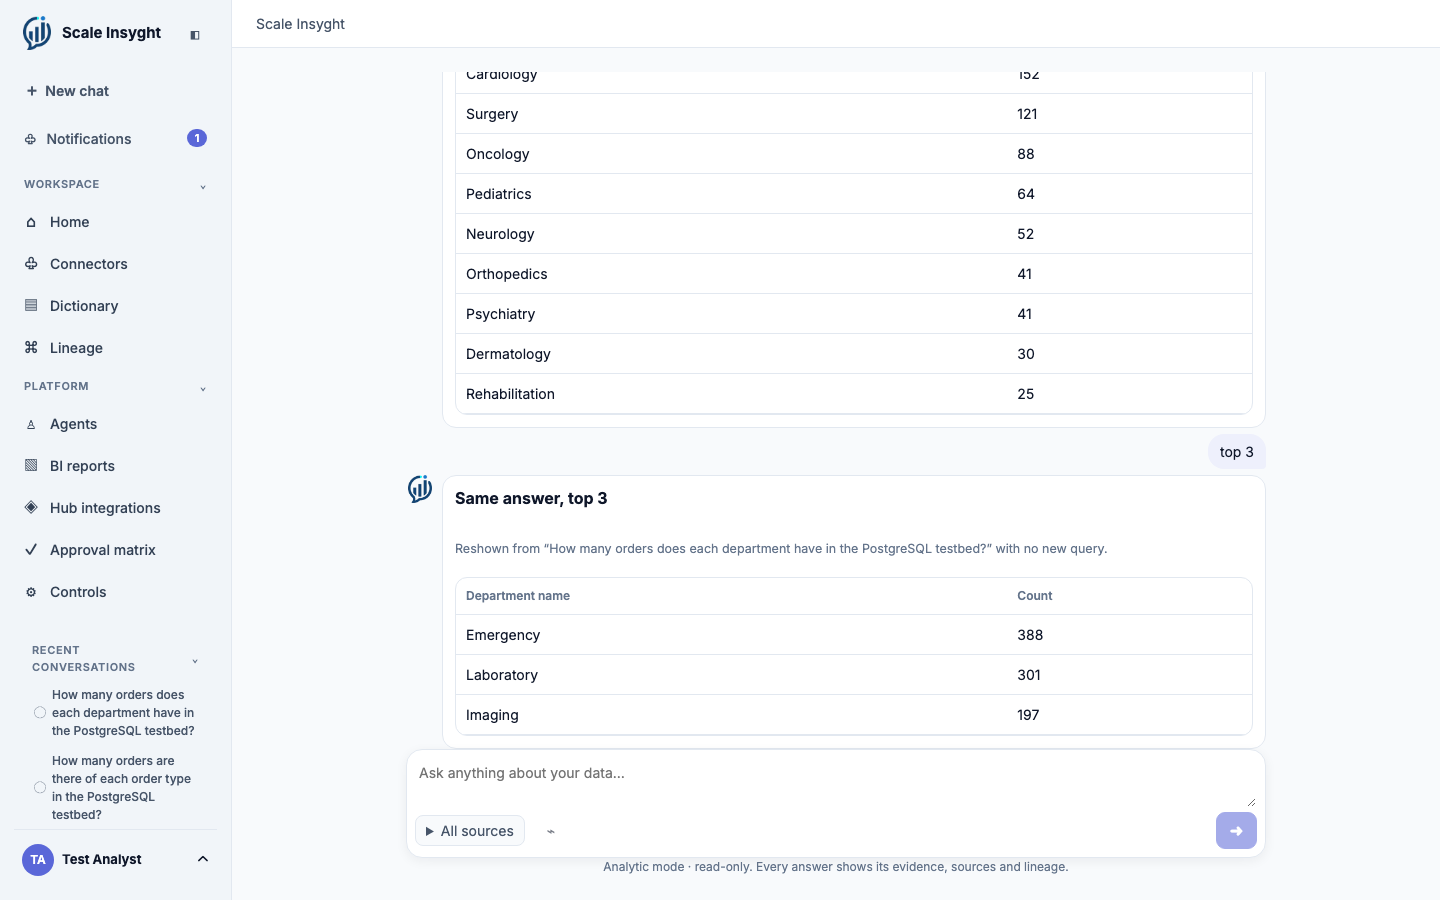
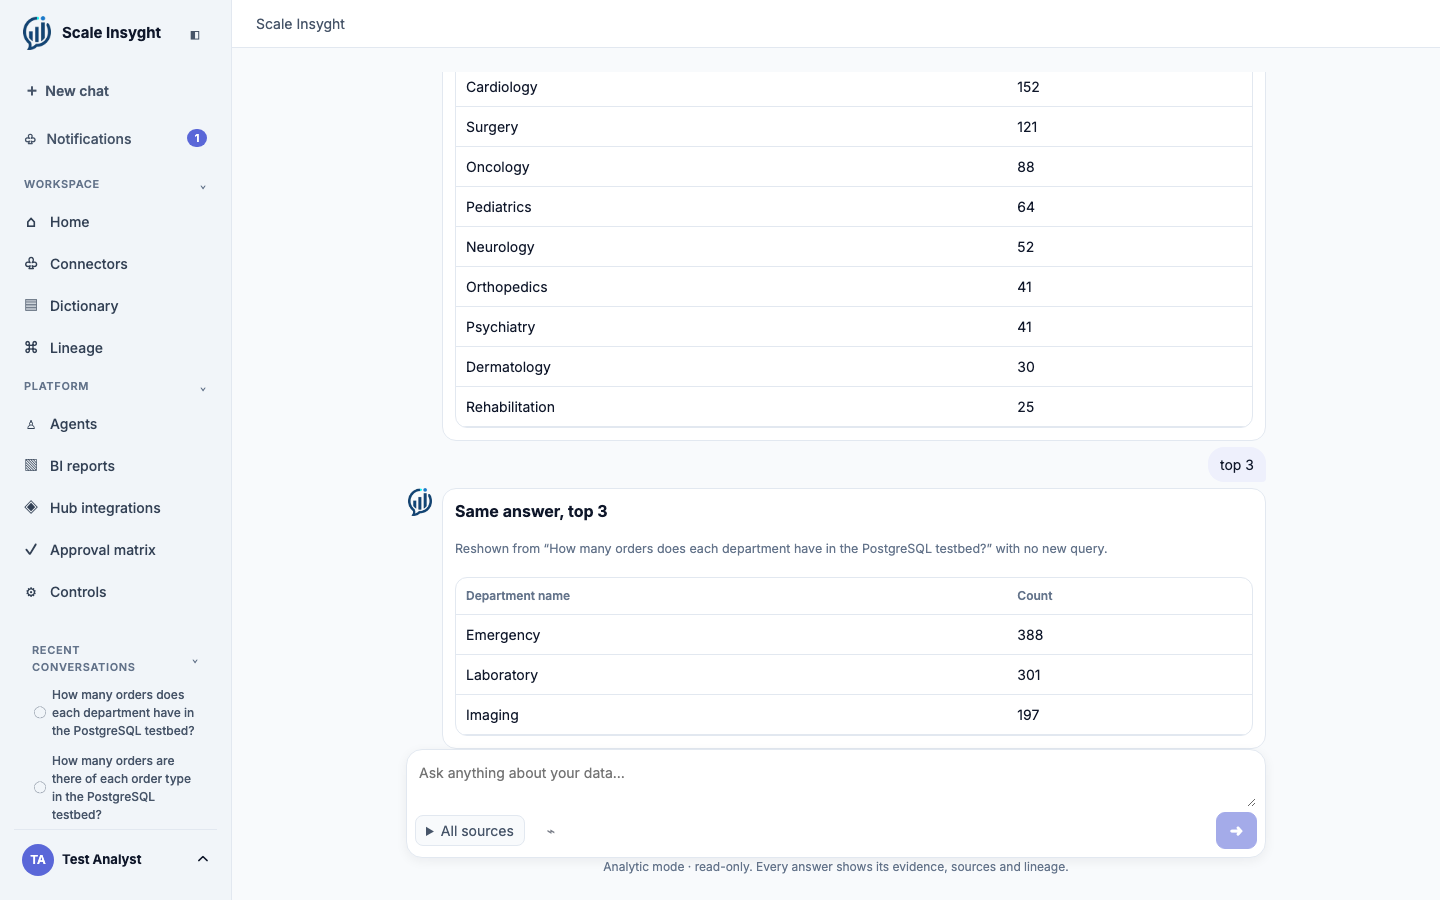
Compact answer card so a typical answer fits the chat (decision 56 section 6): source picker closes on send, evidence-pack exports move into the drawer, badge row and summary row shared, denser chart rows; S2b passes unchanged (K7)

diff --git a/apps/web/src/main.tsx b/apps/web/src/main.tsx
@@ -327,7 +327,7 @@ function previousForFollowUp(turn:AnalyticRun|undefined):Previous{
 }
 
 function AnalyticWorkspace(props: { connections: Connection[]; navigate: (path: string) => void; runId?:string|undefined; conversationId?:string|undefined; notifications: Notification[]; recentQuestions:Array<{planId:string;question:string}>; refreshConversations:()=>Promise<void>; markRead:(id:string)=>Promise<void>; userName:string }) {
-  const [question,setQuestion]=useState(()=>new URLSearchParams(location.search).get('ask')?.slice(0,2000)??'');const [selected,setSelected]=useState<string[]>([]);const [authorized,setAuthorized]=useState<string[]>([]);const [run,setRun]=useState<AnalyticRun|null>(null);const [threadRuns,setThreadRuns]=useState<AnalyticRun[]>([]);const [displayTurns,setDisplayTurns]=useState<DisplayTurn[]>([]);const [conversationId,setConversationId]=useState(props.conversationId);const [events,setEvents]=useState<Array<{sequence:number;event_type:string}>>([]);const [error,setError]=useState('');const [feedback,setFeedback]=useState('');const [catalogueMatches,setCatalogueMatches]=useState<string[]|null>(null);const [choice,setChoice]=useState<SourceChoice|null>(null);const [sending,setSending]=useState(false);const sendingRef=useRef(false);const pendingRequest=useRef<{text:string;id:string}|null>(null);
+  const [question,setQuestion]=useState(()=>new URLSearchParams(location.search).get('ask')?.slice(0,2000)??'');const [selected,setSelected]=useState<string[]>([]);const [authorized,setAuthorized]=useState<string[]>([]);const [run,setRun]=useState<AnalyticRun|null>(null);const [threadRuns,setThreadRuns]=useState<AnalyticRun[]>([]);const [displayTurns,setDisplayTurns]=useState<DisplayTurn[]>([]);const [conversationId,setConversationId]=useState(props.conversationId);const [events,setEvents]=useState<Array<{sequence:number;event_type:string}>>([]);const [error,setError]=useState('');const [feedback,setFeedback]=useState('');const [catalogueMatches,setCatalogueMatches]=useState<string[]|null>(null);const [choice,setChoice]=useState<SourceChoice|null>(null);const [sending,setSending]=useState(false);const sendingRef=useRef(false);const pickerRef=useRef<HTMLDetailsElement>(null);const pendingRequest=useRef<{text:string;id:string}|null>(null);
   const active=props.connections.filter(item=>item.status==='active'&&authorized.includes(item.connectionId));
   useEffect(()=>{void api<{sources:Array<{id:string}>}>('/api/analytic/sources').then(result=>{const ids=result.sources.map(item=>item.id);setAuthorized(ids);setSelected(ids);}).catch(()=>setError('Authorized sources could not be loaded.'));},[]);
   useEffect(()=>{if(props.runId)void api<AnalyticRun>(`/api/runs/${props.runId}`).then(setRun).catch(()=>setError('Saved run could not be loaded.'));},[props.runId]);
@@ -337,7 +337,7 @@ function AnalyticWorkspace(props: { connections: Connection[]; navigate: (path: 
         // Recent conversations lists answered threads only, so refresh it when this run finishes.
         if(['COMPLETED','PARTIAL','FAILED'].includes(detail.state))void props.refreshConversations().catch(()=>undefined);if(detail.terminal?.reason==='analytic_source_choice_required'&&detail.terminal.options)setChoice({question:detail.plan.question,options:detail.terminal.options});setThreadRuns(previous=>previous.map(item=>item.runId===detail.runId?detail:item));}).catch(()=>setError('Run status could not be refreshed.'));},600);return()=>clearTimeout(timer);}},[run]);
   useEffect(()=>{if(!run&&!threadRuns.length)return;requestAnimationFrame(()=>{const scroll=document.querySelector('.chat-scroll');if(scroll)scroll.scrollTop=scroll.scrollHeight;});},[run?.runId,run?.stateVersion,threadRuns.length,displayTurns.length]);
-  async function ask(override?:{question:string;sourceIds:string[]}){const submitted=(override?.question??question).trim();if(!submitted||sendingRef.current)return;sendingRef.current=true;setSending(true);
+  async function ask(override?:{question:string;sourceIds:string[]}){const submitted=(override?.question??question).trim();if(!submitted||sendingRef.current)return;sendingRef.current=true;if(pickerRef.current)pickerRef.current.open=false;setSending(true);
     // One request id per send; a retry of the same text reuses it, so the API never creates a second run or thread.
     const requestId=!override&&pendingRequest.current?.text===submitted?pendingRequest.current.id:crypto.randomUUID();pendingRequest.current={text:submitted,id:requestId};setError('');setFeedback('');setCatalogueMatches(null);setChoice(null);try{
     // A form-only follow-up reshows the last answer: no run, no query, no model call (decision 56).
@@ -349,7 +349,7 @@ function AnalyticWorkspace(props: { connections: Connection[]; navigate: (path: 
   const [offerSave,setOfferSave]=useState(false);
   async function saveQuestion(){if(!run)return;try{await api(`/api/runs/${run.runId}/save`,{method:'POST'});setOfferSave(false);setFeedback('Saved. Find it under My agent, saved questions.');}catch(reason){setError(reason instanceof Error?reason.message:'The question could not be saved.');}}
   async function rate(verdict:'useful'|'not_useful'){if(!run)return;try{await api(`/api/runs/${run.runId}/feedback`,{method:'POST',headers:{'content-type':'application/json'},body:JSON.stringify({verdict})});setFeedback(verdict==='useful'?'Thanks. Save this question to reuse it as a starting plan?':'Feedback saved to your personal agent.');setOfferSave(verdict==='useful');}catch(reason){setError(reason instanceof Error?reason.message:'Feedback could not be saved.');}}
-  async function exportPack(format:'pdf'|'xlsx'|'pptx'){if(!run)return;try{const response=await fetch(`/api/runs/${run.runId}/evidence-pack`,{method:'POST',headers:{'content-type':'application/json'},body:JSON.stringify({format})});if(!response.ok)throw new Error('Evidence pack could not be exported.');const blob=await response.blob();const link=document.createElement('a');link.href=URL.createObjectURL(blob);link.download=`evidence-${run.runId}.${format}`;link.click();URL.revokeObjectURL(link.href);}catch(reason){setError(reason instanceof Error?reason.message:'Evidence pack could not be exported.');}}
+  async function exportPack(format:'pdf'|'xlsx'|'pptx',runId=run?.runId){if(!runId)return;try{const response=await fetch(`/api/runs/${runId}/evidence-pack`,{method:'POST',headers:{'content-type':'application/json'},body:JSON.stringify({format})});if(!response.ok)throw new Error('Evidence pack could not be exported.');const blob=await response.blob();const link=document.createElement('a');link.href=URL.createObjectURL(blob);link.download=`evidence-${runId}.${format}`;link.click();URL.revokeObjectURL(link.href);}catch(reason){setError(reason instanceof Error?reason.message:'Evidence pack could not be exported.');}}
   const allRuns=threadRuns.length?threadRuns:run?[run]:[];
   const threadItems:Array<{kind:'run';run:AnalyticRun;at:string}|(DisplayTurn&{at:string})>=[...allRuns.filter(turn=>turn.terminal?.reason!=='analytic_source_choice_required').map(turn=>({kind:'run' as const,run:turn,at:turn.startedAt??''})),...displayTurns.map(turn=>({...turn,at:turn.createdAt}))]
     .map((item,position)=>({item,position})).sort((a,b)=>(a.item.at&&b.item.at?a.item.at.localeCompare(b.item.at):0)||a.position-b.position).map(entry=>entry.item);
@@ -392,12 +392,12 @@ function AnalyticWorkspace(props: { connections: Connection[]; navigate: (path: 
           {turn.answer.answer.bySource?.map((result,sourceIndex)=><div key={sourceIndex}>{result.lineage?<LineageAnswer lineage={result.lineage} onOpen={()=>props.navigate('/lineage')}/>:!result.rows?.length?<p className="source-result">Source result: {result.value}</p>
             :<GroupedAnswer rows={result.rows} request={null} sourceName={result.sourceId?friendlySource(result.sourceId):'the source'} groupLabel={groupLabelFor(turn,result)} measureLabel={measureLabelFor(turn,result)}
               summary={result.summary&&<p className="group-summary">Highest: <strong>{result.summary.highest.label}</strong> ({formatNumber(result.summary.highest.value)}) · Lowest: <strong>{result.summary.lowest.label}</strong> ({formatNumber(result.summary.lowest.value)}) · Spread: {formatNumber(result.summary.spread)}{result.summary.ties.map(tie=><span key={tie.value}> · {listNames(tie.labels)} tie at {formatNumber(tie.value)}</span>)}</p>}/>}</div>)}
-          <TrustBadges probableJoins={(turn.answer.answer.trust?.joins??[]).filter(join=>join.probable).length}/>
+          <div className="answer-foot"><TrustBadges probableJoins={(turn.answer.answer.trust?.joins??[]).filter(join=>join.probable).length}/></div>
           <details className="evidence-drawer"><summary>SQL, sources and lineage ({(turn.answer.answer.evidence?.length??0)===1?'1 query':`${turn.answer.answer.evidence?.length??0} queries`})</summary>
             <AnswerSources run={turn} name={friendlySource}/>
             <div className="evidence-list"><b>Evidence</b>{turn.answer.answer.evidence?.map(evidence=><div key={evidence.evidence_id}><span>{evidence.locator||'Source metadata'}</span><small>{evidence.redacted_summary}</small></div>)}</div>
+            {turn.state==='COMPLETED'&&<div className="export-actions" aria-label="Export evidence pack"><Button size="small" onClick={()=>void exportPack('pdf',turn.runId)}>Export PDF</Button><Button size="small" onClick={()=>void exportPack('xlsx',turn.runId)}>Export workbook</Button><Button size="small" onClick={()=>void exportPack('pptx',turn.runId)}>Export slides</Button></div>}
           </details>
-          {last&&turn.state==='COMPLETED'&&<div className="export-actions" aria-label="Export evidence pack"><Button size="small" onClick={()=>void exportPack('pdf')}>Export PDF</Button><Button size="small" onClick={()=>void exportPack('xlsx')}>Export workbook</Button><Button size="small" onClick={()=>void exportPack('pptx')}>Export slides</Button></div>}
           {last&&<div className="feedback-actions"><span>Was this answer helpful?</span><Button variant="ghost" aria-label="Useful" onClick={()=>void rate('useful')}>👍</Button><Button variant="ghost" aria-label="Not useful" onClick={()=>void rate('not_useful')}>👎</Button></div>}
           {offerSave&&last&&<Button onClick={()=>void saveQuestion()}>Save this question</Button>}{feedback&&last&&<p role="status">{feedback}</p>}
         </article>}
@@ -406,7 +406,7 @@ function AnalyticWorkspace(props: { connections: Connection[]; navigate: (path: 
     })}{choice&&<><div className="question-bubble">{choice.question}</div><div className="assistant-row"><Logo className="assistant-logo" /><article className="evidence-card source-choice"><h2>Which source should I use?</h2><p>{listNames(choice.options.map(option=>option.name))} can each answer this question. Choose the source to use:</p><div className="source-choice-actions">{choice.options.map(option=><Button key={option.sourceId} onClick={()=>void ask({question:choice.question,sourceIds:[option.sourceId]})}>Use {option.name}</Button>)}</div></article></div></>}</div></div>
     {active.length===0&&!props.runId&&<EmptyState title="Connect a source to get started" description="Ask questions across your connected data, with a read-only plan and evidence for each answer." action={<Button variant="primary" onClick={()=>props.navigate('/connectors')}>Add a connector</Button>} />}
     {error&&<p role="alert" className="error">{error}</p>}
-    <form className="composer" onSubmit={event=>{event.preventDefault();void ask();}}><Textarea aria-label="Ask a question" required value={question} onChange={event=>setQuestion(event.target.value)} placeholder="Ask anything about your data…" rows={2} /><div className="composer-footer"><details className="source-picker"><summary>All sources</summary>{active.map(item=><label key={item.connectionId}><Input type="checkbox" data-source-id={item.connectionId} checked={selected.includes(item.connectionId)} onChange={event=>setSelected(old=>event.target.checked?[...old,item.connectionId]:old.filter(id=>id!==item.connectionId))} />{friendlySource(item.connectionId)}</label>)}</details><Button type="button" variant="ghost" aria-label="Attach a file" disabled title="File uploads are not available in this workspace">⌁</Button><Button variant="primary" type="button" aria-label="Send question" disabled={sending||!question.trim()||(!selected.length&&!/\b(?:table|view)[_. -]?\d+\b/i.test(question))} onClick={()=>void ask()}>➜</Button></div></form><p className="hint">Analytic mode · read-only. Every answer shows its evidence, sources and lineage.</p></div></section>;
+    <form className="composer" onSubmit={event=>{event.preventDefault();void ask();}}><Textarea aria-label="Ask a question" required value={question} onChange={event=>setQuestion(event.target.value)} placeholder="Ask anything about your data…" rows={2} /><div className="composer-footer"><details className="source-picker" ref={pickerRef}><summary>All sources</summary>{active.map(item=><label key={item.connectionId}><Input type="checkbox" data-source-id={item.connectionId} checked={selected.includes(item.connectionId)} onChange={event=>setSelected(old=>event.target.checked?[...old,item.connectionId]:old.filter(id=>id!==item.connectionId))} />{friendlySource(item.connectionId)}</label>)}</details><Button type="button" variant="ghost" aria-label="Attach a file" disabled title="File uploads are not available in this workspace">⌁</Button><Button variant="primary" type="button" aria-label="Send question" disabled={sending||!question.trim()||(!selected.length&&!/\b(?:table|view)[_. -]?\d+\b/i.test(question))} onClick={()=>void ask()}>➜</Button></div></form><p className="hint">Analytic mode · read-only. Every answer shows its evidence, sources and lineage.</p></div></section>;
 }
 
 function AgentGroups(props:{connections:Connection[]}){

diff --git a/apps/web/src/home-answer.tsx b/apps/web/src/home-answer.tsx
@@ -116,12 +116,12 @@ export function GroupedAnswer(props: { rows: Array<Record<string, unknown>>; req
   const [flip, setFlip] = useState<'table' | 'chart' | null>(null);
   const form = flip ?? chosen;
   const rows = requested.rows;
+  const flipButton = chosen === 'chart' ? <Button size="small" variant="ghost" onClick={() => setFlip(form === 'chart' ? 'table' : 'chart')}>{form === 'chart' ? 'Show as a table' : 'Show as a chart'}</Button> : null;
   return <div className="grouped-result">
-    {props.summary}
+    {(props.summary || flipButton) && <div className="grouped-head">{props.summary}{flipButton}</div>}
     {form === 'chart' && <GroupChart rows={rows} sourceName={props.sourceName} groupLabel={props.groupLabel} />}
     {(form === 'table' || form === 'small_table') && <GroupTable rows={rows} groupLabel={props.groupLabel} measureLabel={props.measureLabel} sourceName={props.sourceName} />}
     {form === 'compact_table' && <GroupTable rows={rows} groupLabel={props.groupLabel} measureLabel={props.measureLabel} sourceName={props.sourceName} compact />}
-    {chosen === 'chart' && <Button size="small" variant="ghost" onClick={() => setFlip(form === 'chart' ? 'table' : 'chart')}>{form === 'chart' ? 'Show as a table' : 'Show as a chart'}</Button>}
   </div>;
 }
 

diff --git a/apps/web/src/shell.css b/apps/web/src/shell.css
@@ -372,3 +372,13 @@ h3 { font-size: 14px; line-height: 1.3; }
 .analytic-workspace .refusal-card h2, .analytic-workspace .refusal-card p { margin: 0; }
 .analytic-workspace .grouped-result > .ui-button { justify-self: start; width: auto; }
 .analytic-workspace .chat-thread, .analytic-workspace .composer, .analytic-workspace .home-updates, .analytic-workspace .prompts { width: min(860px, 100%); margin-left: auto; margin-right: auto; }
+/* A typical answer fits the chat area (decision 56, section 6). */
+.analytic-workspace .grouped-head { display: flex; justify-content: space-between; align-items: center; gap: 8px; flex-wrap: wrap; }
+.analytic-workspace .grouped-head .group-summary { margin: 0; }
+.analytic-workspace .grouped-head .ui-button { min-height: 24px; padding: 2px 8px; }
+.analytic-workspace .bar-chart .bar-row { min-height: 18px; padding: 1px 4px; }
+.analytic-workspace .bar-chart figcaption { margin-top: 2px; }
+.analytic-workspace .answer-foot { display: flex; align-items: center; gap: 8px; }
+.analytic-workspace .evidence-drawer .export-actions { margin-top: 8px; }
+.analytic-workspace .evidence-card > h2 { margin: 0; }
+.analytic-workspace .feedback-actions { padding-top: 4px; }

diff --git a/tests/e2e/real-product-s7-saved-exports.spec.ts b/tests/e2e/real-product-s7-saved-exports.spec.ts
@@ -51,6 +51,8 @@ test('s7_saved_question_reuse_exports_governed_report_schedule_and_dictionary_ma
   await expect(page.getByRole('status').filter({ hasText: 'Saved.' })).toBeVisible();
 
   // Exports of the live answer, opened and checked.
+  // Evidence-pack exports sit in the answer's evidence drawer.
+  await page.locator('.evidence-drawer').last().locator(':scope > summary').click();
   expectFigures(pdfText(await download(page, 'Export PDF')));
   const sheet = await xlsxRows(await download(page, 'Export workbook'), 'Figures');
   expect(sheet[0]).toEqual(['Question', question]);
